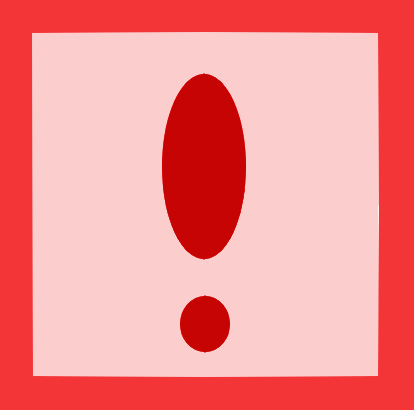
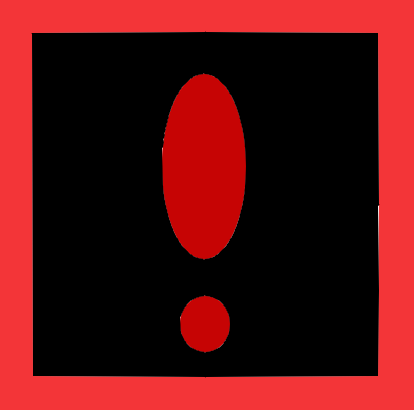
a

diff --git a/project/DirectX/engine/postEffect/ObjectPostEffect.cpp b/project/DirectX/engine/postEffect/ObjectPostEffect.cpp
@@ -15,7 +15,7 @@ void ObjectPostEffect::Initialize(DirectXCommon* dxCommon, SrvManager* srvManage
     const std::array<float, 4> transparent = { 0.0f, 0.0f, 0.0f, 0.0f };
 
     objectRT_ = std::make_unique<RenderTexture>();
-    objectRT_->Initialize(dxCommon_, srvManager_, rtvManager_, WinApp::kClientWidth, WinApp::kClientHeight, transparent);
+    objectRT_->Initialize(dxCommon_, srvManager_, rtvManager_, WinApp::kClientWidth, WinApp::kClientHeight, transparent, false);
 
     bloomRT_A_ = std::make_unique<RenderTexture>();
     bloomRT_A_->Initialize(dxCommon_, srvManager_, rtvManager_, WinApp::kClientWidth / 4, WinApp::kClientHeight / 4, transparent, false);
@@ -68,9 +68,8 @@ void ObjectPostEffect::BeginCapture() {
 
     Transition(objectRT_->GetResource(), D3D12_RESOURCE_STATE_PIXEL_SHADER_RESOURCE, D3D12_RESOURCE_STATE_RENDER_TARGET);
 
-    dxCommon_->SetRenderTarget(objectRT_->GetRTVHandle(), objectRT_->GetDSVHandle());
+    dxCommon_->SetRenderTargetNoDepth(objectRT_->GetRTVHandle());
     ClearTransparent(objectRT_->GetRTVHandle());
-    dxCommon_->GetList()->ClearDepthStencilView(objectRT_->GetDSVHandle(), D3D12_CLEAR_FLAG_DEPTH, 1.0f, 0, 0, nullptr);
     dxCommon_->SetViewport(WinApp::kClientWidth, WinApp::kClientHeight);
 }
 